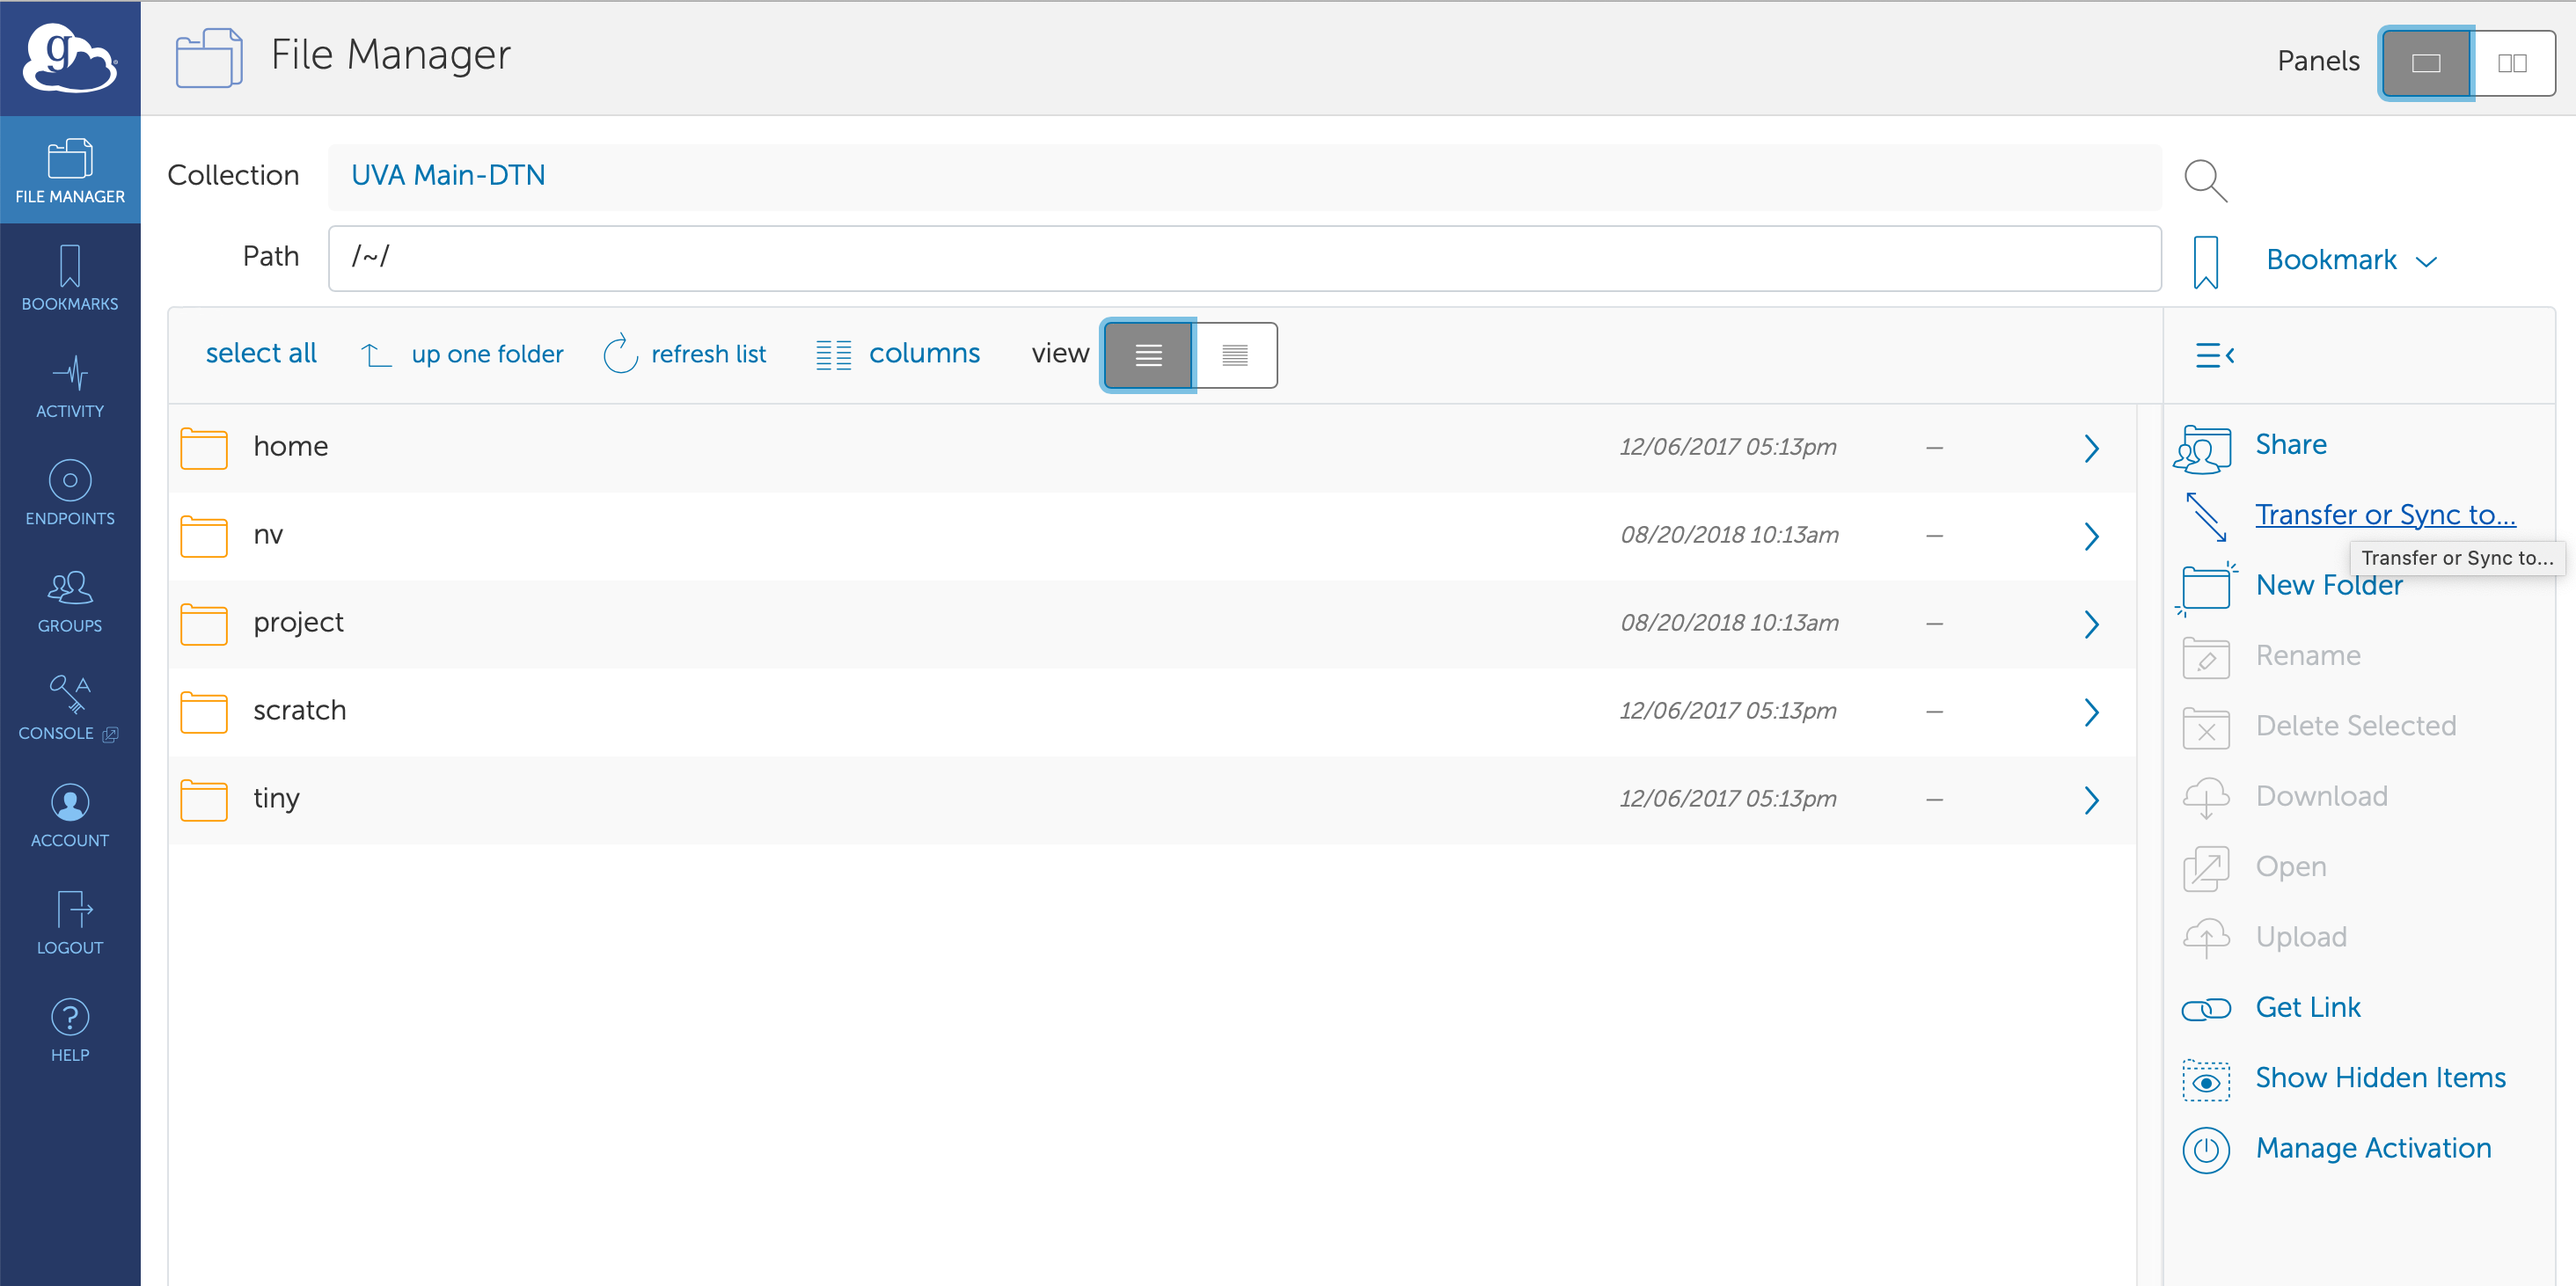
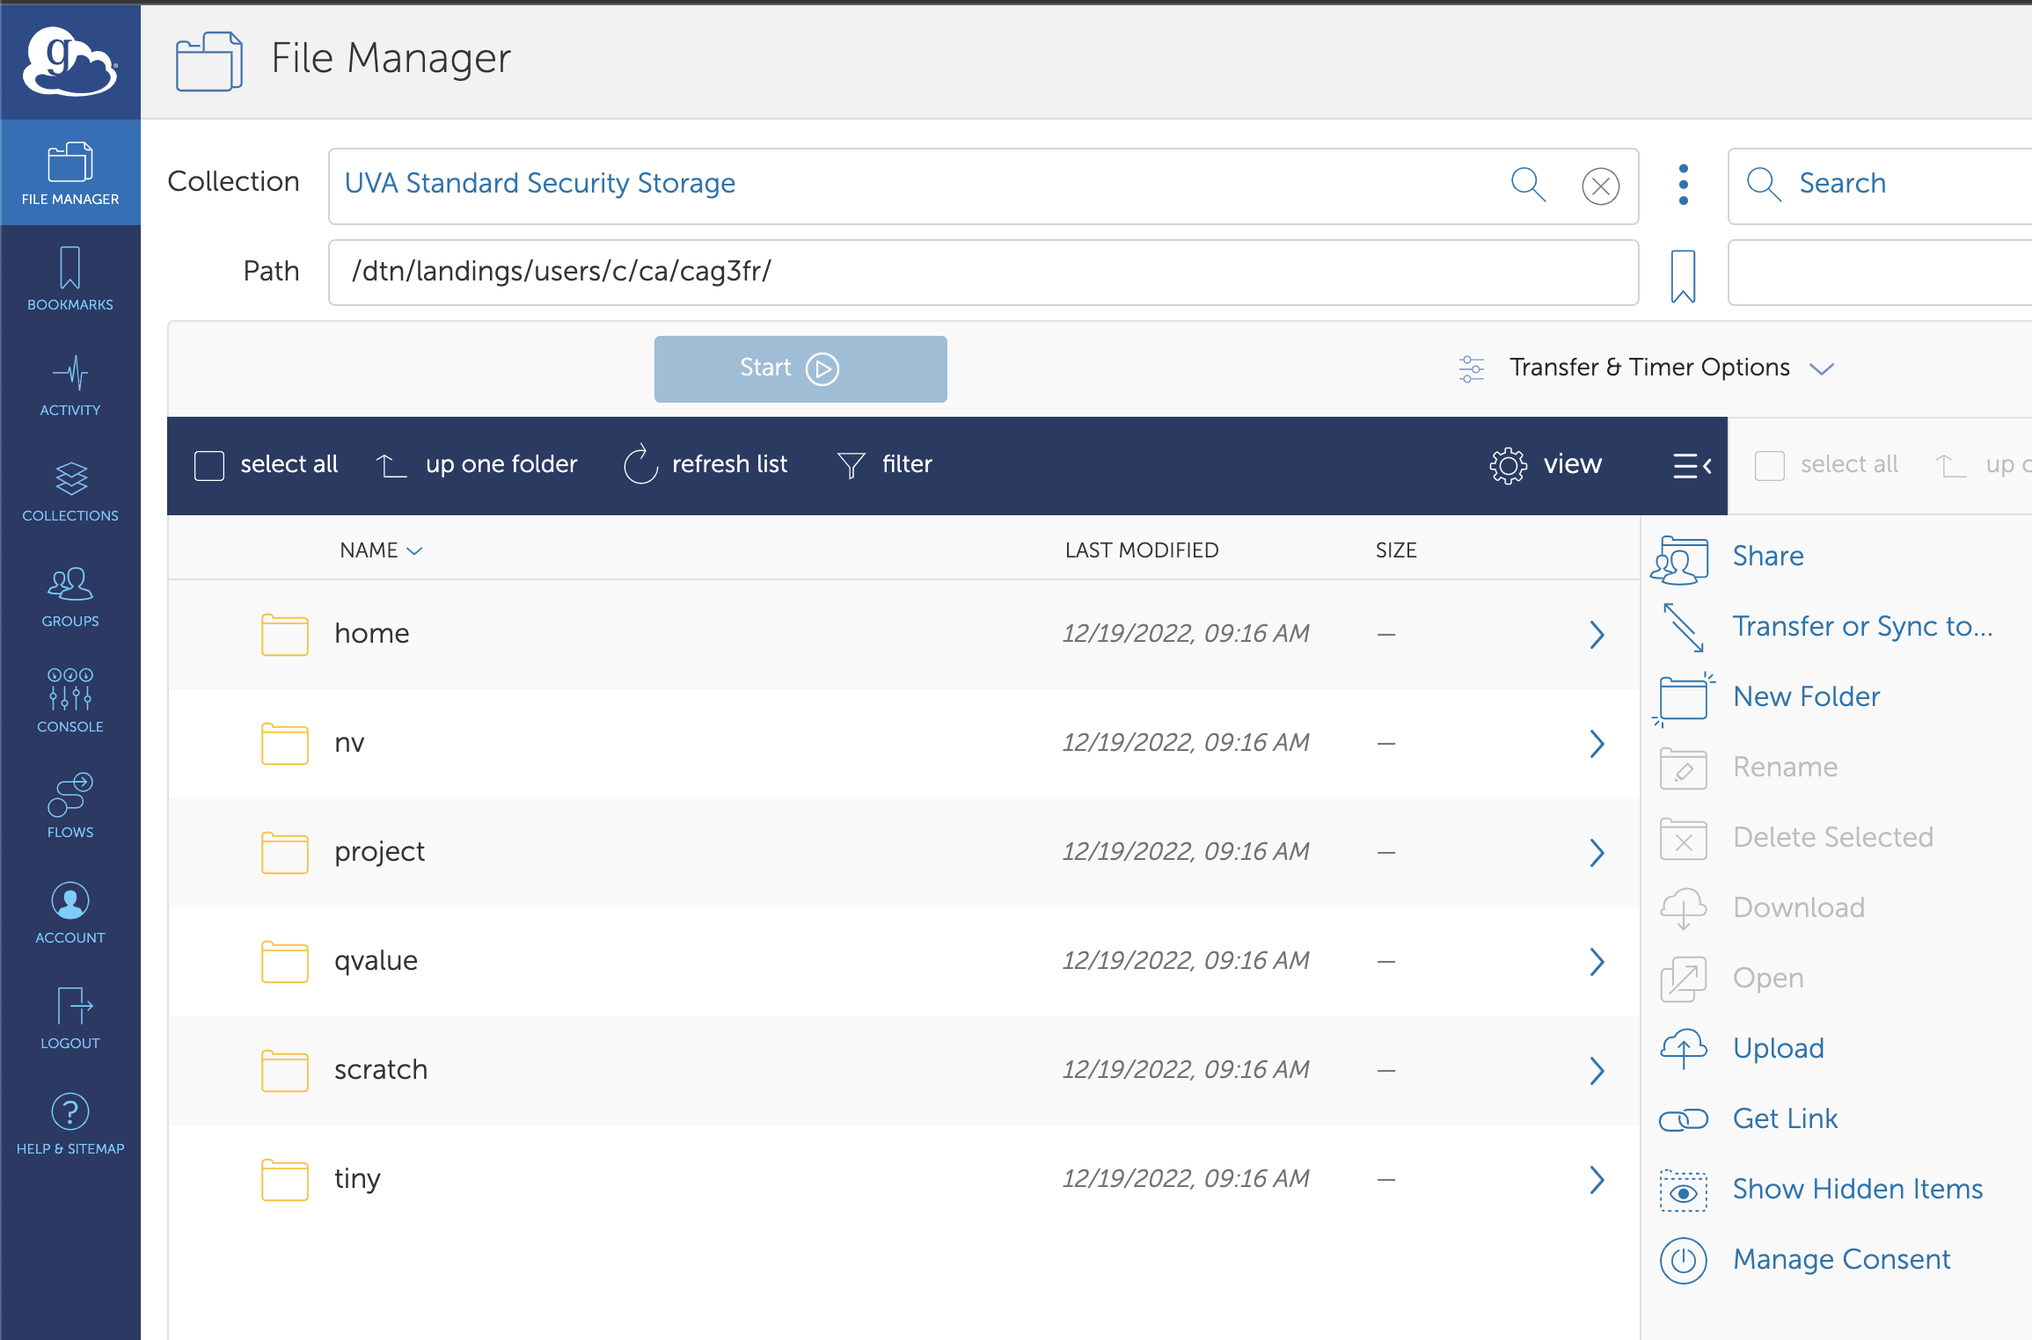
updating DTN names

diff --git a/content/userinfo/globus.md b/content/userinfo/globus.md
@@ -2,7 +2,7 @@
 author = "RC Staff"
 description = ""
 title = "Globus Data Transfer"
-date = "2021-04-10T10:08:29-05:00"
+date = "2023-01-24T10:08:29-05:00"
 draft = false
 tags = ["data-transfer","rivanna","storage","ivy","globus","dtn","infrastructure"]
 categories = ["userinfo"]
@@ -87,7 +87,7 @@ You can search for the collections to use for your transfer from the File Manage
 
 The official UVA managed collections are:
 
-* `uva#main-DTN` - generally available; maps to Rivanna _home_ directories, _scratch_, _Research Standard_ & _Research Project_ storage.
+* `UVA Standard Security Storage` - generally available; maps to Rivanna _home_ directories, _scratch_, _Research Standard_ & _Research Project_ storage.
 * `uva#ivy-DTN` - available to Ivy secure platform users, for moving files into Ivy Central Storage.
     **Globus is the *only* permitted data-transfer protocol for highly sensitive data.** To transfer data to Ivy Central Storage, please see the special instructions [here](/userinfo/ivy/overview/#data-transfer-inout-of-ivy).
 
@@ -129,15 +129,14 @@ Here you will see a list of your current and past transfer jobs.  Click on a job
 
 Users are notified via email for both successful and failed transfers. The email looks something like this, and provides a URL for more information:
 
-    TASK DETAILS
-    Task ID: 4460c25c-72d1-11e7-aa08-22000bf2d287
-    Task Type: TRANSFER
-    Status: SUCCEEDED
-    Source: mst3k Lab MacBook (39e0bf8a-3037-11e7-bcae-22000b9a448b)
-    Destination: uva#portable-DTN (67b9cb38-301c-11e7-bcac-22000b9a448b)
-    Label: n/a
-
-    https://www.globus.org/app/activity/4460c25c-72d1-11e7-aa08-22000bf2d287
+```TASK DETAILS
+Task ID: 7c0351b4-9c1c-11ed-a29d-8383522b48d9
+Task Type: TRANSFER
+Status: SUCCEEDED
+Source: Gancayco Laptop (e6b14dc6-34a8-11ed-ba40-d5fb255a47cc)
+Destination: UVA Standard Security Storage (e6b338df-213b-4d31-b02c-1bc2c628ca07)
+Label: n/a
+https://app.globus.org/activity/7c0351b4-9c1c-11ed-a29d-8383522b48d9/overview```
 
 # Sharing Folders
 
@@ -146,7 +145,7 @@ You can share folders to either specific individuals, or to groups that you crea
 {{% /callout %}}
 
 1. Open the [Globus web interface](https://www.globus.org/) and log in using UVA Netbadge.
-2. From the Transfer Files interface, log in to the UVA Main-DTN collection as described above.  
+2. From the Transfer Files interface, log in to the **UVA Standard Security Storage** collection as described above.  
 3. Navigate in the folder structure of that collection until you find the folder you want to share. Highlight it.
 4. Next, select the Share link on the right side of the files window.
   <img src="/images/globus-shared-endpoint.png" width="700" height="443" alt="create-share">
